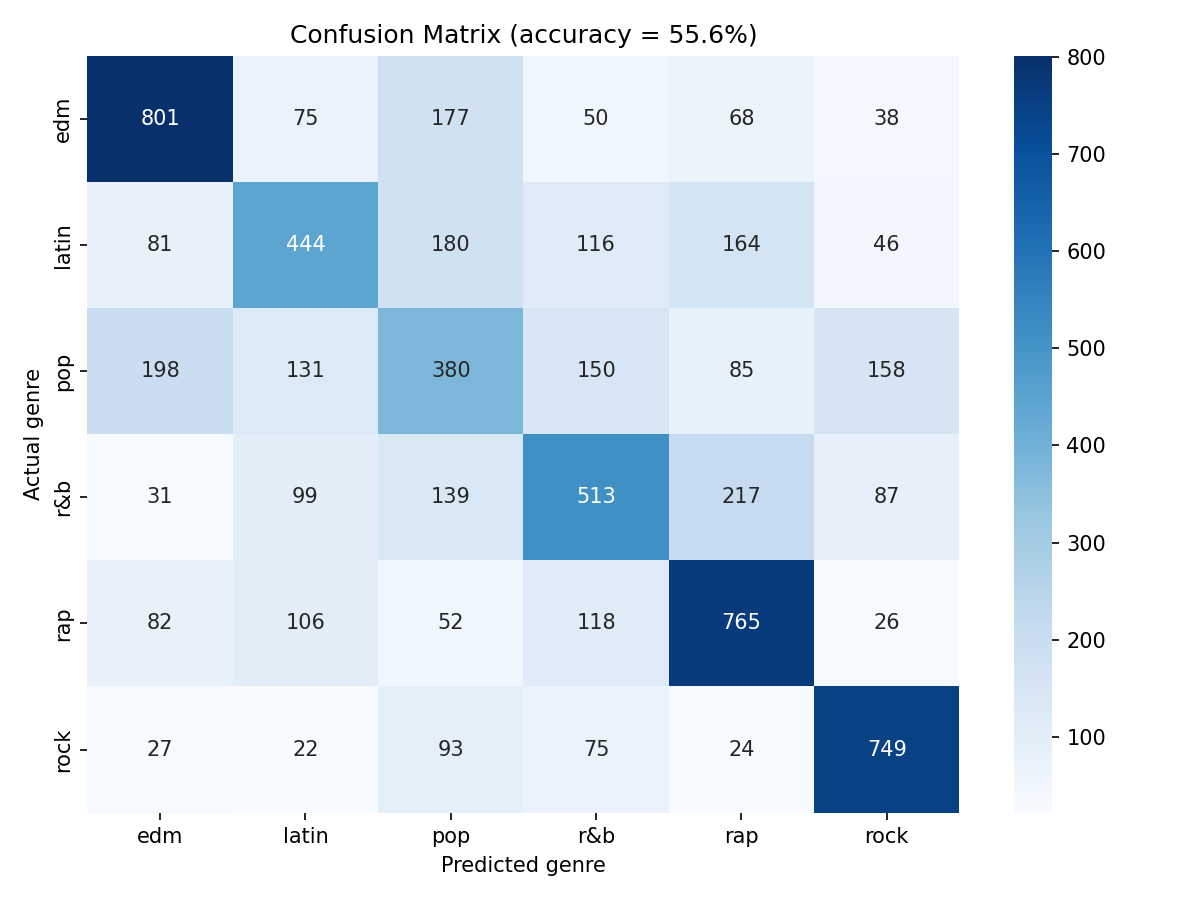
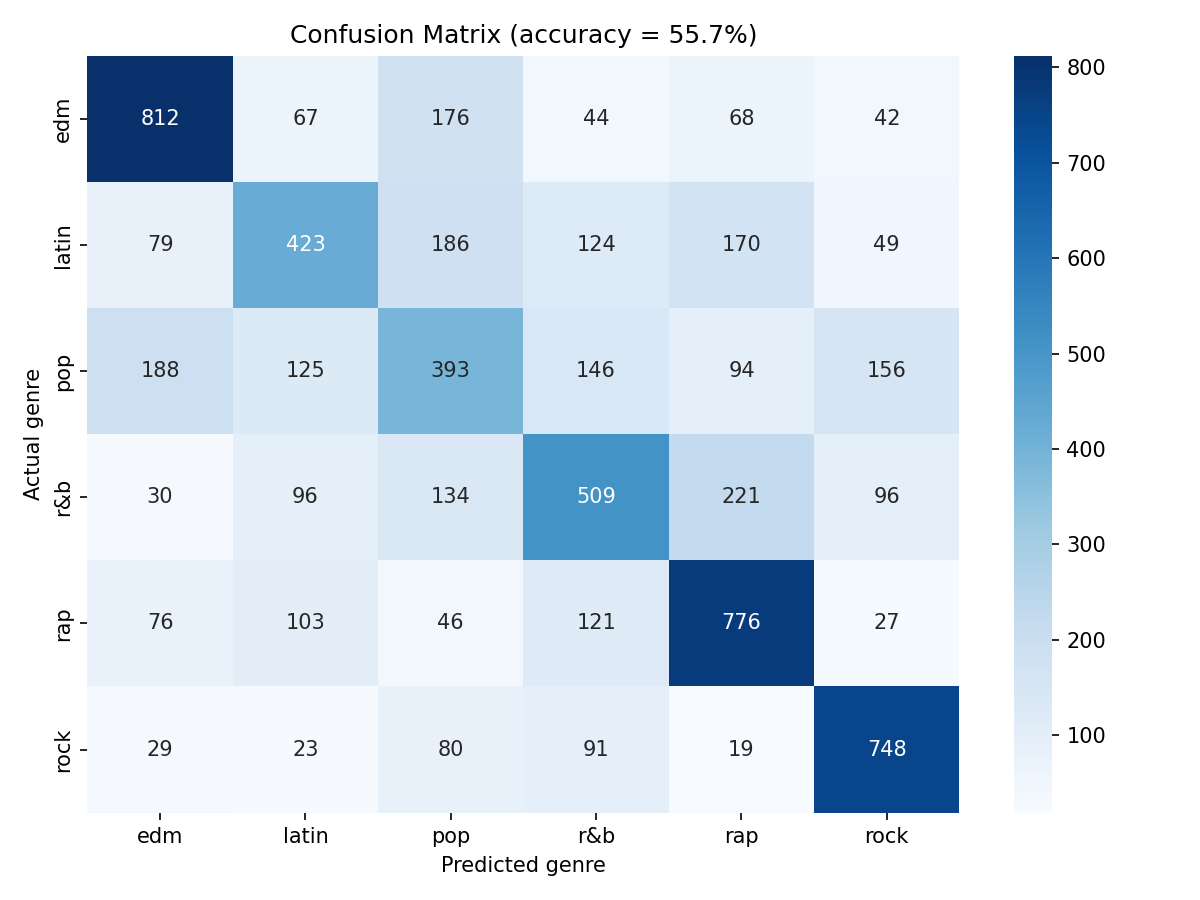
Tune Random Forest hyperparameters with a randomized cross-validated search (55.2% -> 55.7%)

diff --git a/03_train_model.py b/03_train_model.py
@@ -12,7 +12,12 @@ Why Random Forest?
 """
 
 import pandas as pd
-from sklearn.model_selection import train_test_split, StratifiedKFold, cross_val_score
+from sklearn.model_selection import (
+    train_test_split,
+    StratifiedKFold,
+    cross_val_score,
+    RandomizedSearchCV,
+)
 from sklearn.ensemble import RandomForestClassifier
 from sklearn.metrics import accuracy_score, classification_report, confusion_matrix
 import matplotlib.pyplot as plt
@@ -57,16 +62,56 @@ print(f"  per fold: {[round(s, 3) for s in cv_scores]}")
 print(f"  mean: {cv_scores.mean():.3f} (+/- {cv_scores.std():.3f})")
 print()
 
-# 4. Train the final model on the full training set
-model = RandomForestClassifier(n_estimators=200, random_state=42, n_jobs=-1)
-model.fit(X_train, y_train)
+# 4. Now actually use that cross-validation setup for something: search over Random Forest
+#    hyperparameters instead of just going with the library defaults (200 trees, no depth
+#    limit, etc). Every candidate combination gets evaluated the same 5-fold way as above,
+#    so "best" here means best average across folds, not best on one lucky split.
+#    RandomizedSearchCV instead of an exhaustive GridSearchCV because the full grid below
+#    is 4 x 4 x 3 x 3 x 3 = 432 combinations x 5 folds = 2,160 model fits, way more than
+#    needed to find a good combination and way too slow to run on a laptop. Sampling 6
+#    random combinations x 5 folds = 30 fits instead gets most of the benefit in a couple
+#    of minutes rather than an afternoon.
+param_distributions = {
+    "n_estimators": [100, 150, 200, 250],
+    "max_depth": [10, 20, 30, 40],
+    "min_samples_split": [2, 5, 10],
+    "min_samples_leaf": [1, 2, 4],
+    "max_features": ["sqrt", "log2", None],
+}
 
-# 5. Evaluate on the held-out test set - songs neither training nor cross-validation
-#    above ever saw, this is the real "how does it do on brand new songs" number.
+search = RandomizedSearchCV(
+    RandomForestClassifier(random_state=42, n_jobs=1),
+    param_distributions=param_distributions,
+    n_iter=6,
+    cv=cv,
+    scoring="accuracy",
+    random_state=42,
+    n_jobs=-1,
+    verbose=1,
+)
+search.fit(X_train, y_train)
+
+print("Best hyperparameters found:")
+print(f"  {search.best_params_}")
+print(f"Best cross-validation accuracy: {search.best_score_:.3f}")
+print(
+    f"(vs {cv_scores.mean():.3f} for the untuned defaults above, "
+    f"{(search.best_score_ - cv_scores.mean()) * 100:+.1f} percentage points)"
+)
+print()
+
+# search.best_estimator_ has already been refit on the *entire* training set using the
+# winning hyperparameters (RandomizedSearchCV does this automatically, refit=True by
+# default), so there's no separate "now train the final model" step needed here.
+model = search.best_estimator_
+
+# 5. Evaluate on the held-out test set - songs neither training, cross-validation, nor the
+#    hyperparameter search above ever saw, this is the real "how does it do on brand new
+#    songs" number.
 y_pred = model.predict(X_test)
 accuracy = accuracy_score(y_test, y_pred)
 
-print(f"Held-out test accuracy: {accuracy:.3f} ({accuracy*100:.1f}%)")
+print(f"Held-out test accuracy (tuned model): {accuracy:.3f} ({accuracy*100:.1f}%)")
 print()
 print("Full classification report:")
 print(classification_report(y_test, y_pred))
@@ -93,6 +138,6 @@ plt.tight_layout()
 plt.savefig("feature_importance.png", dpi=150)
 print("Saved feature_importance.png")
 
-# 8. Save the trained model so it can be reused without retraining
+# 8. Save the tuned model so it can be reused without retraining/re-searching
 joblib.dump(model, "genre_classifier_model.pkl")
 print("Saved genre_classifier_model.pkl")

diff --git a/README.md b/README.md
@@ -25,29 +25,31 @@ python3 03_train_model.py
 
 ## The model
 
-A Random Forest classifier (basically a big group of decision trees that each vote on the answer, 200 of them here), trained on an 80/20 split, so the score below is on songs the model never saw while training.
+A Random Forest classifier (basically a big group of decision trees that each vote on the answer), trained on an 80/20 split, so the score below is on songs the model never saw while training.
 
-Also ran 5-fold cross-validation on the training set before touching the test set at all. The problem with just one fixed 80/20 split is the accuracy you get depends partly on luck, which songs happened to land in the test set that time round. Cross-validation splits the training data 5 ways and rotates which chunk gets held out, so you get 5 accuracy readings instead of 1: 55.2% on average, +/- 0.6% between folds. That's really close to the test score below, so the 80/20 split wasn't a fluke, the model's genuinely landing around mid-50s.
+Also ran 5-fold cross-validation on the training set before touching the test set at all. The problem with just one fixed 80/20 split is the accuracy you get depends partly on luck, which songs happened to land in the test set that time round. Cross-validation splits the training data 5 ways and rotates which chunk gets held out, so you get 5 accuracy readings instead of 1: 55.2% on average, +/- 0.6% between folds, using the library's default settings (200 trees, no depth limit, etc).
 
-Test accuracy: 55.6%. Doesn't sound huge on its own, but random guessing across 6 genres would only get you about 16.7%, so this is roughly 3.3x better than just guessing.
+Then used that cross-validation to actually do something useful: a random search over Random Forest hyperparameters (number of trees, tree depth, how many features each split considers, minimum samples per split/leaf), 6 random combinations checked across all 5 folds each, picking whichever combination scored best on average rather than just going with the defaults. Winner: 250 trees, max depth 30, `max_features="log2"`, `min_samples_split=10`, `min_samples_leaf=2`. That nudged cross-validation accuracy from 55.2% to 55.7%, a small but real gain, tuning a Random Forest that's already close to its ceiling on this data only buys you so much, which is itself a useful thing to know rather than assume.
+
+Test accuracy (tuned model): 55.7%. Doesn't sound huge on its own, but random guessing across 6 genres would only get you about 16.7%, so this is roughly 3.3x better than just guessing.
 
 ![Confusion matrix](confusion_matrix.png)
 
 ### What it's good and bad at
 
-Best at spotting rock (72% F1, F1 is basically a combined precision and recall score, one number that punishes a model for being wrong either by missing tracks or wrongly flagging them) and EDM (66% F1). Makes sense, both have a pretty consistent audio fingerprint: rock leans lower danceability with more energy swings, EDM is just high energy in a specific tempo range.
+Best at spotting rock (71% F1, F1 is basically a combined precision and recall score, one number that punishes a model for being wrong either by missing tracks or wrongly flagging them) and EDM (67% F1). Makes sense, both have a pretty consistent audio fingerprint: rock leans lower danceability with more energy swings, EDM is just high energy in a specific tempo range.
 
-Worst at pop, only 36% F1, mostly getting confused with R&B and latin. Honestly this tracks though. Pop isn't really its own sound, it's more of a commercial label that borrows bits from whatever genre is popular at the time, so there isn't one clean audio signature for the model to latch onto. Kind of a nice thing to have found out by accident rather than something I set out to prove.
+Worst at pop, only 37% F1, mostly getting confused with R&B and latin. Honestly this tracks though. Pop isn't really its own sound, it's more of a commercial label that borrows bits from whatever genre is popular at the time, so there isn't one clean audio signature for the model to latch onto. Kind of a nice thing to have found out by accident rather than something I set out to prove.
 
 ![Feature importance](feature_importance.png)
 
-Danceability, energy, and speechiness ended up mattering most for telling genres apart.
+Tempo, speechiness, and danceability came out as the most important features for the tuned model, before tuning it was danceability, energy, and speechiness. The ranking shifting a bit after tuning (`max_features="log2"` means each split only gets to consider a smaller random slice of features rather than most of them) was a good reminder that "feature importance" isn't some fixed property of the data, it's a property of the specific model you trained.
 
 ## What I'd try next
 
 - Use the finer-grained `playlist_subgenre` labels instead, harder problem
-- Try XGBoost or LightGBM and see if it beats the Random Forest
-- Now that cross-validation's actually wired in, use it properly, run a grid/random search over Random Forest hyperparameters (tree depth, number of trees, min samples per split) instead of just the defaults
+- Try XGBoost or LightGBM and see if it beats the tuned Random Forest
+- Widen the hyperparameter search (more combinations, wider ranges) now that the pipeline for it exists, this run only checked 6 combinations to keep it running in a couple of minutes
 
 ## Tools used
 
